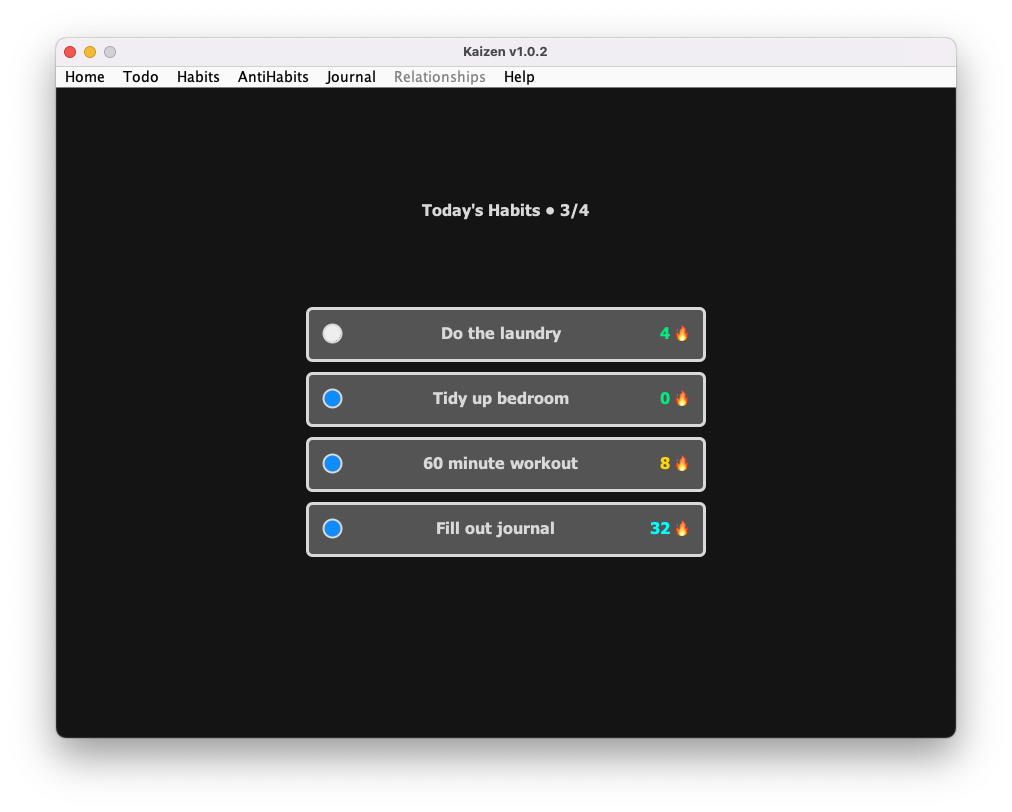
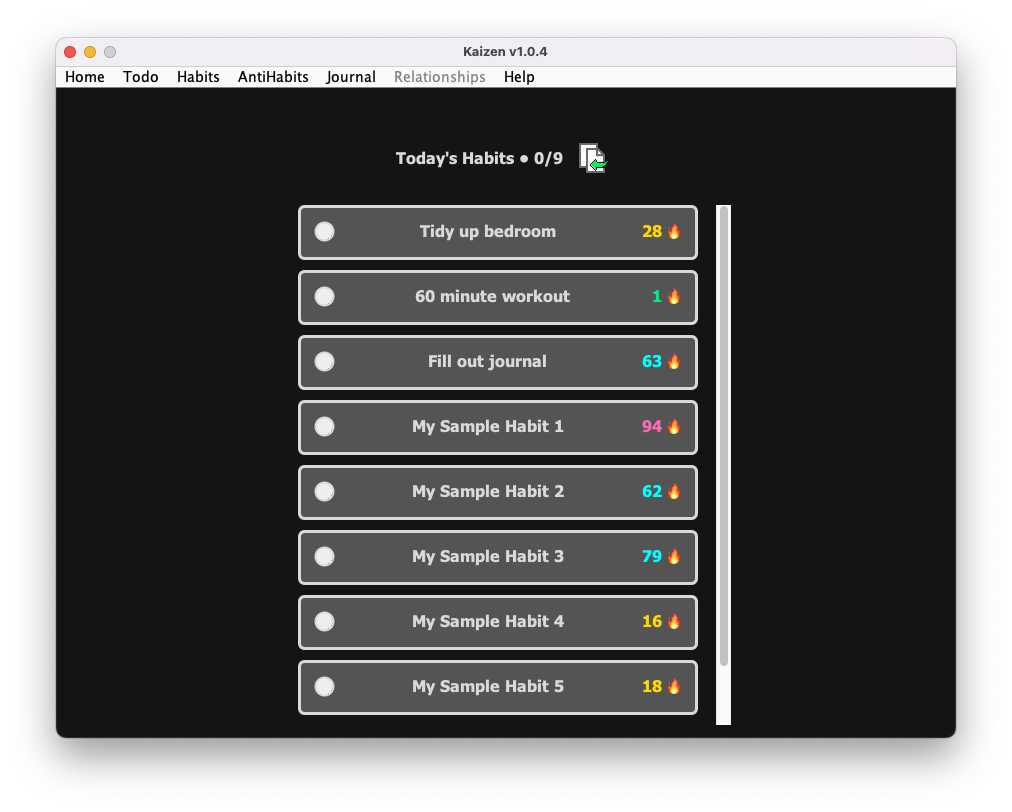
Update README

Changed region(s): [[0.2757, 0.2463, 0.7352, 0.8929], [0.3982, 0.1847, 0.6126, 0.2155]]

diff --git a/KaizenClient/src/widget/JournalWidgetPanel.java b/KaizenClient/src/widget/JournalWidgetPanel.java
@@ -16,6 +16,7 @@ import javax.swing.JTextArea;
 
 import domain.Journal;
 import domain.JournalEntry;
+import domain.Settings;
 import json.JournalJsonManager;
 import util.Constants;
 import util.Utils;
@@ -53,7 +54,7 @@ public class JournalWidgetPanel extends JPanel {
 	private JPanel saveChangesButtonPanel;
 	private JButton saveChangesButton;
 	
-	public JournalWidgetPanel(int index) {
+	public JournalWidgetPanel(int index, Settings settings) {
 		this.setBackground(Constants.GUI_BACKGROUND_COLOR);
 		this.gbc = new GridBagConstraints();
 		this.gbc.gridwidth = GridBagConstraints.REMAINDER;  
@@ -72,7 +73,7 @@ public class JournalWidgetPanel extends JPanel {
 		textPanel.setLayout(new GridBagLayout());
 		textPanel.setBackground(Constants.COMPONENT_BACKGROUND_COLOR);
 		textPanel.setBorder(Constants.COMPONENT_BORDER_SMALL);
-		textLabel = new JLabel(getQuestionFromIndex());
+		textLabel = new JLabel(getQuestionFromIndex(settings));
 		textLabel.setFont(Constants.COMPONENT_FONT_SMALL_BOLD);
 		textLabel.setForeground(Constants.COMPONENT_FOREGROUND_COLOR);
 		textArea = new JTextArea(9, 30);
@@ -143,16 +144,16 @@ public class JournalWidgetPanel extends JPanel {
 		}
 	}
 	
-	private String getQuestionFromIndex() {
+	private String getQuestionFromIndex(Settings settings) {
 		switch(index) {
 			case 1:
-				return "What events occurred today?";
+				return settings.getJournalText1AreaPrompt();
 			case 2:
-				return "Any problems or stresses today?";
+				return settings.getJournalText2AreaPrompt();
 			case 3:
-				return "What are you grateful for today?";
+				return settings.getJournalText3AreaPrompt();
 			case 4:
-				return "What are your goals for tomorrow?";
+				return settings.getJournalText4AreaPrompt();
 			default:
 				throw new RuntimeException("Invalid textIndex entered: " + index);
 		}

diff --git a/KaizenClient/src/gui/MainGUI.java b/KaizenClient/src/gui/MainGUI.java
@@ -157,7 +157,7 @@ public class MainGUI extends JFrame {
 	
 	private void initMemberVariables() {
 		settings = SettingsJsonManager.readJson();
-		state = new HomeState();
+		state = new HomeState(settings);
 		
 		if(settings.isEnableDiscordRPC()) {
 			debug.print("Enabling Discord RPC");
@@ -201,7 +201,7 @@ public class MainGUI extends JFrame {
 			public void menuSelected(MenuEvent e) {
 				if(!(state instanceof HomeState)) {
 					debug.print("Home Menu selected, changing to Home State");
-					changeState(new HomeState());
+					changeState(new HomeState(settings));
 				} else {
 					debug.print("Home Menu selected, but already in state. Will not reload state.");
 				}
@@ -218,7 +218,7 @@ public class MainGUI extends JFrame {
 			public void actionPerformed(ActionEvent e) {
 				if(!(state instanceof HomeState)) {
 					debug.print("Home Menu selected, changing to Home State");
-					changeState(new HomeState());
+					changeState(new HomeState(settings));
 				} else {
 					debug.print("Home Menu selected, but already in state. Will not reload state.");
 				}
@@ -232,7 +232,7 @@ public class MainGUI extends JFrame {
 						JOptionPane.QUESTION_MESSAGE,
 						new ImageIcon(getClass().getClassLoader().getResource("INFO_ERROR_ORANGE.png")));
 				if(result == JOptionPane.OK_OPTION) {
-					changeState(new HomeState());
+					changeState(new HomeState(settings));
 				}
 			}
 			

diff --git a/KaizenClient/src/state/HomeState.java b/KaizenClient/src/state/HomeState.java
@@ -9,6 +9,7 @@ import javax.swing.JPanel;
 import javax.swing.SwingConstants;
 
 import domain.Home;
+import domain.Settings;
 import json.HomeJsonManager;
 import widget.AntiHabitWidgetPanel;
 import widget.HabitWidgetPanel;
@@ -26,8 +27,8 @@ public class HomeState extends State {
 	private JPanel widget3;
 	private JPanel widget4;
 	
-	public HomeState() {
-		super();
+	public HomeState(Settings settings) {
+		super(settings);
 	}
 
 	@Override
@@ -64,13 +65,13 @@ public class HomeState extends State {
 		case "antiHabits":
 			return new AntiHabitWidgetPanel();
 		case "journal1":
-			return new JournalWidgetPanel(1);
+			return new JournalWidgetPanel(1, settings);
 		case "journal2":
-			return new JournalWidgetPanel(2);
+			return new JournalWidgetPanel(2, settings);
 		case "journal3":
-			return new JournalWidgetPanel(3);
+			return new JournalWidgetPanel(3, settings);
 		case "journal4":
-			return new JournalWidgetPanel(4);
+			return new JournalWidgetPanel(4, settings);
 		default:
 			return new NoWidgetPanel();
 		}

diff --git a/README.md b/README.md
@@ -59,6 +59,7 @@ by <a href="https://github.com/narlock">narlock</a>
 - 'View All Items' will display all of the tasks, including epic-unassigned and epic-assigned.
 - By selecting the text of an epic, you can view all of the tasks that correspond to that epic.
 - Sort your tasks by date and priority. (Select them again to reverse the sort order!)
+- Share your Todo list by selecting the copy to clipboard button!
 
 ### **Habits**
 - Keep track of habits that you want to build by accumulating a streak representing the amount of days you have completed your new habit!
@@ -77,6 +78,7 @@ by <a href="https://github.com/narlock">narlock</a>
   - Level 3 (DIAMOND) - 31 to 90 days
   - Level 4 (PINK) - 91 to 300 days
   - Level 5 (RED) - 301+ days
+- Share your habits by selecting the copy to clipboard button!
 
 ### **AntiHabits**
 - Trying to break bad habits too? Kaizen has you covered.
@@ -105,6 +107,9 @@ by <a href="https://github.com/narlock">narlock</a>
 - Save your journal entry by pressing the 'Save Entry' button! Note: you *must* hit 'Save Entry' for your journal entries to save.
 - View previous journal entries by pressing the 'Previous Entry' button!
 - To get back to the present journal entries, press the 'Following Entry' button.
+- Toggle 'How was your day' question in Settings.
+- 2/4 Prompt Modes
+- Customizable Prompt Headers.
 
 ### **Home Widgets**
 - Have all of your productivity tools in one place.
